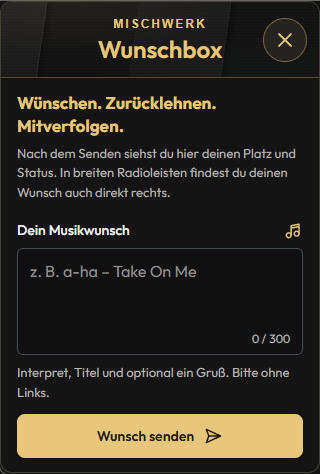
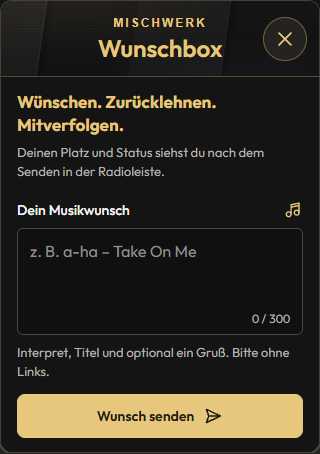
Vereinfache Wunschbox und erneuere Freigabe für Build 451 [skip ci]

diff --git a/PROJEKT/app/www/css/wishes/wishbox.css b/PROJEKT/app/www/css/wishes/wishbox.css
@@ -73,28 +73,7 @@ html[data-view=wishes] .wish-drawer #wish-compose-open { width:calc(100% - 40px)
  html[data-view=wishes] .wish-drawer #wish-compose-open { width:calc(100% - 32px); margin-inline:16px; margin-bottom:14px; }
 }
 
-/* Persönliche Wunschverfolgung, mit denselben Statusdaten wie die Radioleiste. */
+/* Kurzer Einstieg ins Wunschformular. */
 .wish-intro{margin:0 0 18px;color:var(--muted);font-size:13px;line-height:1.5}
 .wish-intro strong{display:block;color:var(--gold);font-size:17px;line-height:1.35;margin-bottom:6px}
 .wish-intro p{margin:0}
-.wish-tracking{padding:18px 20px 16px;border-bottom:1px solid #2b2b2b}
-.wish-live-label{margin:0 0 5px;color:var(--gold);font:700 11px/1.4 Arial,sans-serif;letter-spacing:1.4px;text-transform:uppercase}
-.wish-tracking h3{margin:0 0 14px;color:var(--gold);font-size:23px;line-height:1.25}
-#wish-tracking-song{display:block;font-size:18px;line-height:1.4;font-weight:600;overflow-wrap:anywhere}
-.wish-tracking-meta{display:flex;align-items:baseline;flex-wrap:wrap;gap:6px 12px;margin-top:9px;font-size:14px;line-height:1.45}
-#wish-tracking-rank{color:var(--gold);font-size:20px}
-#wish-tracking-stage{color:var(--muted)}
-#wish-tracking-more{margin:8px 0 0;color:var(--muted);font-size:13px;line-height:1.45}
-.wish-tracking-steps{display:grid;grid-template-columns:repeat(3,minmax(0,1fr));gap:8px;padding:0;margin:18px 0 14px;list-style:none;counter-reset:wish-step}
-.wish-tracking-steps li{border-top:2px solid #353535;padding-top:8px;color:var(--muted);font-size:12px;line-height:1.4;overflow-wrap:anywhere;counter-increment:wish-step}
-.wish-tracking-steps li::before{content:counter(wish-step);display:block;margin-bottom:4px;font-weight:700}
-.wish-tracking-steps .is-current{border-color:var(--gold);color:var(--gold);font-weight:600}
-.wish-tracking-steps .is-done{border-color:#8a764c;color:#d8c99f}
-.wish-tracking-location{margin:12px 0 8px;font-size:13px;line-height:1.5;color:var(--text)}
-.wish-tracking-note{margin:0 0 14px;font-size:12px;line-height:1.45;color:var(--muted)}
-#wish-back-radio{width:100%;min-height:44px}
-@media(max-width:420px){.wish-tracking{padding:16px}.wish-tracking h3{font-size:21px}}
-
-.wish-tracking.is-accepted #wish-tracking-title{animation:mw-wish-arrived .28s ease-out both}
-@keyframes mw-wish-arrived{from{opacity:0;transform:translateY(3px)}to{opacity:1;transform:translateY(0)}}
-@media(prefers-reduced-motion:reduce){.wish-tracking.is-accepted #wish-tracking-title{animation:none}}

diff --git a/PROJEKT/app/www/js/wishes/markup.js b/PROJEKT/app/www/js/wishes/markup.js
@@ -4,17 +4,9 @@ MischWerkUI.define('wishesMarkup', function (dependencies) {
   dependencies.dom.mount('wishes-placeholder', `
     <section id="wishes-panel" aria-label="Wunschbox" hidden>
       <header id="wish-drawer-heading" class="wish-drawer-heading dialog-header" hidden><div class="dialog-heading"><span class="eyebrow">MischWerk</span><h2 id="inline-wish-title">Wunschbox</h2></div><button id="close-wishes" class="icon-button" type="button" aria-label="Wunschbox schließen" title="Wunschbox schließen"><svg viewBox="0 0 24 24" aria-hidden="true"><path d="m6 6 12 12M18 6 6 18"/></svg></button></header>
-      <section id="wish-tracking" class="wish-tracking" aria-labelledby="wish-tracking-title" hidden>
-        <p class="wish-live-label">Dein Live-Status</p><h3 id="wish-tracking-title" aria-live="polite" aria-atomic="true">Dein Wunsch im Blick</h3>
-        <div class="wish-tracking-summary" role="status" aria-live="polite" aria-atomic="true"><strong id="wish-tracking-song"></strong><div class="wish-tracking-meta"><strong id="wish-tracking-rank"></strong><span id="wish-tracking-stage"></span></div><p id="wish-tracking-more"></p></div>
-        <ol id="wish-tracking-steps" class="wish-tracking-steps" aria-label="Wunschstatus"><li>Angenommen</li><li>In Vorbereitung</li><li>Gespielt</li></ol>
-        <p id="wish-tracking-location" class="wish-tracking-location">Deinen Platz und Status findest du hier – auch beim erneuten Öffnen. In breiten Radioleisten steht dein Wunsch zusätzlich rechts.</p>
-        <p class="wish-tracking-note">Der Status kommt von der Moderation. Eine feste Spielzeit gibt es nicht.</p>
-        <button id="wish-back-radio" class="primary-button" type="button">Zurück zum Radio</button>
-      </section>
       <button id="wish-compose-open" class="secondary-button" type="button" aria-controls="wish-form" hidden>Weiteren Wunsch eingeben</button>
       <form id="wish-form" class="wish-compose">
-        <div class="wish-intro"><strong>Wünschen. Zurücklehnen. Mitverfolgen.</strong><p>Nach dem Senden siehst du hier deinen Platz und Status. In breiten Radioleisten findest du deinen Wunsch auch direkt rechts.</p></div>
+        <div class="wish-intro"><strong>Wünschen. Zurücklehnen. Mitverfolgen.</strong><p>Deinen Platz und Status siehst du nach dem Senden in der Radioleiste.</p></div>
         <fieldset id="wish-fields" disabled>
           <div class="wish-label-row">
             <label for="wish-text">Dein Musikwunsch</label>

diff --git a/PROJEKT/app/www/js/wishes/drawer.js b/PROJEKT/app/www/js/wishes/drawer.js
@@ -19,7 +19,8 @@ MischWerkUI.define('wishDrawer', function (dependencies) {
     if (key !== feedbackKey && !data.feedbackHidden && !data.pending && !data.error) { composing = false; }
     feedbackKey = key;
     var positions = model.current() && model.current().wishPositions;
-    var show = !positions || !positions.total || composing || !!data.text || data.error || data.pending;
+    var submitted = positions && positions.total || (!data.error && !data.pending && !!data.feedback);
+    var show = !submitted || composing || !!data.text || data.error || data.pending;
     var form = dom.el('wish-form'), button = dom.el('wish-compose-open');
     var restore = !show && form.contains(document.activeElement);
     var reveal = show && document.activeElement === button;
@@ -55,11 +56,11 @@ MischWerkUI.define('wishDrawer', function (dependencies) {
     feedback.className = 'wish-feedback' + (data.error ? ' error' : data.pending ? ' pending' : ' success');
     feedback.setAttribute('role', data.error ? 'alert' : 'status');
     feedback.setAttribute('aria-live', data.error ? 'assertive' : 'polite');
-    feedback.textContent = data.feedback; feedback.hidden = data.feedbackHidden || (!data.error && !data.pending);
-    feedback.setAttribute('data-accepted', String(!data.feedbackHidden && !data.error && !data.pending));
+    feedback.textContent = !data.error && !data.pending && data.feedback ? 'Dein Wunsch ist dabei!' : data.feedback;
+    feedback.hidden = data.feedbackHidden;
     dom.setText('wish-hint', data.hint); dom.el('wish-hint').hidden = !data.hint;
     receiving = false;
-    showComposer(data);signals.emit('wish-presentation');
+    showComposer(data);
     focusInput();
     if (closing && acknowledged >= sequence) { clearTimeout(closeTimer); closing = false; signals.emit('overlay-dismiss'); }
   }
@@ -110,7 +111,6 @@ MischWerkUI.define('wishDrawer', function (dependencies) {
       event.preventDefault(); if (this.reportValidity()) { edit(true); }
     });
     dom.el('close-wishes').addEventListener('click', close);
-    dom.el('wish-back-radio').addEventListener('click', close);
     document.addEventListener('keydown', function (event) {
       if (model.view === 'wishes' && event.key === 'Escape') { event.preventDefault(); close(); }
     });

diff --git a/PROJEKT/app/www/js/ui/composition.js b/PROJEKT/app/www/js/ui/composition.js
@@ -49,8 +49,6 @@ MischWerkUI.setComposer(function (factories) {
     if (factories.wishRelay) { wishRelay = factories.wishRelay({ bridge:bridge, model:model, dom:dom, commands:commands, signals:signals }); }
     var wishDrawer = null;
     if (factories.wishDrawer) { wishDrawer = factories.wishDrawer({ bridge:bridge, model:model, dom:dom, commands:commands, signals:signals }); }
-    var wishTracking = null;
-    if (factories.wishTracking) { wishTracking = factories.wishTracking({ model:model, dom:dom, signals:signals }); }
     var wishWindow = null;
     if (factories.wishWindow) { wishWindow = factories.wishWindow({ bridge:bridge, model:model, dom:dom, signals:signals }); }
     var team = null;
@@ -76,6 +74,6 @@ MischWerkUI.setComposer(function (factories) {
       presentation: presentation, signals: signals });
     var lifecycle = factories.lifecycle({ bridge: bridge, model: model, dom: dom, layout: layout,
       commands: commands, wishes: wishes, provider: provider, player: player, signals: signals, listenerPresence:listenerPresence });
-    lifecycle.start([viewport, layout, commands, volume, player, listenerPresence, radioTicker, wishes, wishFeedback, wishRelay, wishDrawer, wishTracking, wishWindow,
+    lifecycle.start([viewport, layout, commands, volume, player, listenerPresence, radioTicker, wishes, wishFeedback, wishRelay, wishDrawer, wishWindow,
       team, channelTextsLayout, channelTexts, teamConnection, teamNavigation, scheduleView, schedule, updates, overlays]);
 });

diff --git a/PROJEKT/app/www/js/wishes/relay.js b/PROJEKT/app/www/js/wishes/relay.js
@@ -26,6 +26,8 @@ MischWerkUI.define('wishRelay', function (dependencies) {
     dom.el('open-wishes').setAttribute('aria-haspopup', 'dialog');
     dom.el('open-wishes').setAttribute('aria-expanded', 'false');
     bridge.addEventListener('mw:wishes.open', function (event) {
+      var feedback = dom.el('wish-feedback');
+      if (feedback.classList.contains('success')) { feedback.hidden = true; }
       sequence = 0;
       surfaceId = event.data.surfaceId; surfaceRevision = event.data.viewRevision || 1; opened = true;
       dom.el('open-wishes').setAttribute('aria-expanded', 'true'); mirror(true);

diff --git a/PROJEKT/app/server/app.js b/PROJEKT/app/server/app.js
@@ -1,8 +1,8 @@
 if (typeof MischWerkUpdateProbe === 'function') {
     MischWerkUpdateProbe(/* update-files:start */ {
  "schema": 1,
- "version": "0.1.450",
- "buildNumber": 450,
+ "version": "0.1.451",
+ "buildNumber": 451,
  "directories": {
   "": [
    "main.js",
@@ -148,8 +148,7 @@ if (typeof MischWerkUpdateProbe === 'function') {
    "feedback.js",
    "relay.js",
    "drawer.js",
-   "window.js",
-   "tracking.js"
+   "window.js"
   ],
   "www/js/team": [
    "markup.js",

diff --git a/PROJEKT/app/www/js/start.js b/PROJEKT/app/www/js/start.js
@@ -31,7 +31,6 @@
     ['wishRelay', 'wishes/relay.js', 'radio'],
     ['wishDrawer', 'wishes/drawer.js', 'wishes'],
     ['wishWindow', 'wishes/window.js', 'wishes'],
-    ['wishTracking', 'wishes/tracking.js', 'wishes'],
     ['team', 'team/management.js', 'team'],
     ['channelTexts', 'team/channel-texts.js', 'team'],
     ['teamConnectionDiagnosis', 'team/connection-diagnosis.js', 'team'],

diff --git a/PROJEKT/app/server/config.js b/PROJEKT/app/server/config.js
@@ -1,7 +1,7 @@
 /* MischWerk Backend-Konfiguration. Keine Zugangsdaten oder Clientwerte. */
 var MischWerkConfig = {
-    version: '0.1.450',
-    buildNumber: 450,
+    version: '0.1.451',
+    buildNumber: 451,
     stationName: 'MischWerk',
     ownerNick: 'Otterchen',
     administrationNick: 'Polaroid',

diff --git a/PROJEKT/src/backend/config.js b/PROJEKT/src/backend/config.js
@@ -1,7 +1,7 @@
 /* MischWerk Backend-Konfiguration. Keine Zugangsdaten oder Clientwerte. */
 var MischWerkConfig = {
-    version: '0.1.450',
-    buildNumber: 450,
+    version: '0.1.451',
+    buildNumber: 451,
     stationName: 'MischWerk',
     ownerNick: 'Otterchen',
     administrationNick: 'Polaroid',

diff --git a/PROJEKT/app/main.js b/PROJEKT/app/main.js
@@ -1,3 +1,3 @@
-/* MischWerk 0.1.450 | Build 450 - Einstieg. Fachlogik liegt unter server/. */
+/* MischWerk 0.1.451 | Build 451 - Einstieg. Fachlogik liegt unter server/. */
 KnuddelsServer.execute('server/app.js');
 var App = MischWerkModules.createApp(MischWerkConfig);

diff --git a/PROJEKT/docs/architektur/DESIGN.md b/PROJEKT/docs/architektur/DESIGN.md
@@ -7,7 +7,7 @@ Die breite Leiste nutzt 12 px vertikales Innenpadding und 16 statt 44 px Zusatzr
 
 Alle Rollen verwenden die bisherige Höreranordnung; sie zeigt die unveränderte Radio-Grafik rechts in exakt derselben Bildgröße und auf derselben Höhe wie das linke Logo (normal 160–220 px, in engen 1200–1599-px-Hörerleisten 144–160 px). Sendeplan und freigegebene Wunschbox bilden eine vertikale, mittig ausgerichtete 128-px-Gruppe zwischen Sendungsinformationen/eigenem Wunsch und rechtem Logo, mit 52-px-Tasten, 15-px-Schrift, 24-px-Symbolen und 8 px Abstand. Ohne Freigabe steht nur der Sendeplan an derselben Position. Symmetrische äußere Rasterspalten reservieren jeweils Logo plus 144 px; das linke Logo bleibt am Außenrand, Play bleibt exakt mittig. Keine zusätzliche Aktionszeile oder Höhenreserve unter den Sendungsinformationen. Ab 1800 px steht der eigene Wunsch rechts neben dem Thema; bei 1200–1799 px bleibt er sichtbar innerhalb der rechten Informationsspalte unter Thema und Lautstärke. Dort maximal zwei Wunschtextzeilen mit 16-px-Schrift, vollständiger DOM-Text und bestehende Wunschoberfläche erhalten; Titel/Thema mit 20/24 px, goldene Überschriften gemeinsam 20 px und gleich hoch, Logos proportional. Unter 1200 px bleibt die bisherige kompakte Anordnung. Zentrale Freigaben, Originalmedien und Audioweg bleiben erhalten.
 
-Die Wunschbox begrüßt mit „Wünschen. Zurücklehnen. Mitverfolgen.“ Nach dem Absenden bleiben der nächste eigene Wunsch, bestätigter Platz und drei Moderationsschritte sichtbar – auch bei 320 px und nach Wiederöffnung. Der aktuelle Schritt ist gold hervorgehoben. „Zurück zum Radio“ schließt über den bestehenden Entwurfsweg. Hinweis auf die zusätzliche Anzeige rechts in breiten Radioleisten; keine geschätzte Wartezeit oder aktuelle Audiobehauptung. Keine zusätzliche Versandmeldung unter dem Live-Status; die Bestätigung erfolgt ausschließlich im Live-Status.
+Die Wunschbox begrüßt mit „Wünschen. Zurücklehnen. Mitverfolgen.“ Nach bestätigter Abgabe erscheint für fünf Sekunden „Dein Wunsch ist dabei!“ samt Weiteren Wunsch eingeben. Beim erneuten Öffnen steht nur diese Eingabeoption bereit; ein vorhandener Entwurf oder laufender/fehlgeschlagener Versand bleibt direkt sichtbar. Eigener Wunsch, Platz und Moderationsstatus stehen ausschließlich in der Radioleiste. Keine doppelte Live-Statusansicht oder Zurück-zum-Radio-Taste; Schließen und Escape erhalten den bestehenden Entwurfsweg.
 
 Die Menütexte sind kurz, direkt und einheitlich formuliert. Klare Kernnamen wie Sendung, Wünsche, Radio-Team und Bot-Texte bleiben erhalten. Outfit ist die Menüschrift: Menütitel 24/28 px, große Bereichstitel 20/26–28 px, Abschnittsüberschriften 16/22 px, Feldbeschriftungen und Haupttasten 14 px, Hinweise 13 px und Eingaben 16 px. Haupt- und Abschnittsüberschriften einschließlich Sendeplanthemen verwenden MischWerk-Gold #e6c77b. Der MischWerk-Systemschriftzug nutzt Arial 12/14 px. Hinweise, Zähler und Fehler behalten ihren eigenen Rang und ihre Zustandsfarben. Kürzere Wunschboxzustände und kompakte Innenabstände im Bot-Text-Reiter erhalten die Geometrie bei 320 px. Radioleiste und Menüköpfe verwenden die Werkhallen-Textur aus der einmaligen CSS-Variable --workshop-material im kritischen Stil von index.html. Unterhalb der Köpfe sind sämtliche Menü-Inhaltsflächen einschließlich Reitern, Listen, Lade-/Fehler-/Leerzuständen und Fußbereichen einheitlich #141414 ohne Hintergrundbild, Diagonalpaneele oder Textur. Der erste HTML-Anstrich verwendet dieselbe ruhige Inhaltsfläche. Sechs Verlaufsebenen bilden versetzte Graphitpaneele, abgeschrägte Kanten, feine matte Linien und sehr zurückhaltendes warmes/kühles Licht. Prozentuale Flächen und Lichtzentren füllen jede tatsächliche Fenstergröße. Die gemeinsame Variable --workshop-angle passt die Neigung der Paneelkanten per Seitenverhältnis von 98 bis 128 Grad an schmale, breite und ultrabreite Hosts an, bereits im ersten HTML-Anstrich; auch veränderte Höhe und Browserzoom werden berücksichtigt. Keine neue Materialanimation, Medienanfrage oder JavaScript-Größenmessung. Alle Menü-Canvasflächen und Header besitzen #141414 als Grundfarbe; Eingaben bleiben neutral #101010 und Trenner #2b2b2b. Transparente Reiterleisten, Tagesnavigation und Bot-Text-Fußleiste lassen die ruhige Graphitfläche durchscheinen. Die goldenen Lichtreflexe und der RGB-Rand bleiben an der Radioleiste. Passt dort kein vollständig freier senkrechter Korridor, prüft radio/workshop im breiten Deck den tatsächlichen 45-Grad-Verlauf zwischen den zweidimensionalen Text-/Bedienrechtecken einschließlich Reflexabstand. So bleiben vollständige Linien bei 1536/1707 px nutzbarer Breite sichtbar; weder Bedienung noch Text werden hinterzeichnet. Sämtliche nativen Menüs verwenden die gemeinsame Studio-Werkhalle unter css/shared/workshop-menus.css: ruhiges Graphit, feine Metallkanten und warme Goldakzente. Die Header tragen einen lesbaren MischWerk-Schriftzug in Arial über dem mittigen Outfit-Titel. Die kleinen Bildlogos sind aus dem Menümarkup entfernt; Radio und Originalmedien bleiben erhalten. Schließen bleibt rund und mindestens 44 × 44 px groß. Bereits der erste HTML-Anstrich entspricht dem fertigen 76-px-Kopf. Sendung und Wünsche sowie Radio-Team, Bot-Texte und Verbindung verwenden gleichmäßige 48-px-Reiter mit goldener Auswahlkante. Wunschbox und Tagesplan teilen Material, Schrift und Aktionsfarben. Bestehende Scroll-, Größen-, Rechte-, Entwurfs- und Audiowege bleiben erhalten.
 
@@ -89,7 +89,7 @@ Aktuelle lokale Ansichten: [Lauftext unter der Appleiste](../pruefung/oberflaech
 
 Alle vier nativen Overlays zeigen den lesbaren MischWerk-Schriftzug über dem mittigen Titel und eine frei erreichbare runde Schließen-Taste rechts. Die kleinen Header-Bildlogos sind entfernt. Die Köpfe bleiben vom ersten HTML-Anstrich bis zur fertigen Ansicht mindestens 76 px hoch, mit 12-px-Systemschriftzug und 24-px-Outfit-Titel. Reiterwechsel verändern den Kopf nicht. HTML-Menüaußenflächen verwenden #141414; die leere native Ladeabdeckung bleibt #0f1114. Eingaben haben 16-px-Text; Aktionen bleiben mindestens 44 px groß.
 
-- **Wunschbox:** Wie die Moderation flach in Graphit #141414 mit Outfit und goldener Sendetaste. Kleine Radien, ruhiger Kopf ohne dekorative Ringe, ein 300-Zeichen-Textfeld und Zeichenzähler. Höhe vom ersten Öffnen an natürlich; nach Abgabe eine einzige Bestätigung „Dein Wunsch ist dabei!“ im Live-Status sowie Weiteren Wunsch eingeben. Eigener Song, Platz und Moderationsschritte bleiben auch bei 320 px und nach Wiederöffnung sichtbar; die breite Appleiste zeigt den Wunsch zusätzlich. [Lokale 320-px-Ansicht](../pruefung/oberflaeche/wunschbox/wunschbox-flach-320.png).
+- **Wunschbox:** Flach in Graphit #141414 mit Outfit und goldener Sendetaste. Kleine Radien, ruhiger Kopf, ein 300-Zeichen-Textfeld und Zeichenzähler. Natürliche Höhe ab Öffnen; nach Abgabe eine kurze Bestätigung „Dein Wunsch ist dabei!“ sowie Weiteren Wunsch eingeben. Bei Wiederöffnung nur die weitere Eingabeoption; keine wiederholte Versandquittung oder Wunschverfolgung. Eigener Song, Platz und Status bleiben ausschließlich in der Radioleiste. [Lokale 320-px-Ansicht](../pruefung/oberflaeche/wunschbox/wunschbox-flach-320.png).
 - **Moderation:** Sendung und Wünsche auf flachem Graphit #141414 mit Gold #e6c77b, Outfit, einfachen Rahmen und matten Tasten. Sendung enthält An-/Abmeldung ohne PIN, Wunschbox, Thema und private Übergabe. Wünsche zeigt eine einzige scrollbare Liste: echter Nick beziehungsweise externer Anzeigename mit Herkunft, Empfangsuhrzeit und vollständiger goldener Wunschtext. Jeder offene Wunsch zeigt seinen bestätigten Regiestatus und die vorhandenen Aktionen für Vorbereitung, Zurücksetzen, Jetzt dran, Erledigen und Verwerfen; Verwerfen verlangt eine Inline-Bestätigung. Keine Umsortierung oder Textseiten. Aktualisieren und Rückmeldung stehen fest über der Liste. Nur Sendung und Übergabe verwenden bei Platzmangel Vor/Zurück. Alte gespeicherte Moderationsgrafiken sind entfernt; Testbilder bleiben ausschließlich temporär.
 - **Verwaltung:** Neu aufgebaut im gleichen flachen Stil wie Moderation und Wunschbox: Outfit, Anthrazit, Goldakzente und kleine Radien. Radio-Team mit kurzer Nickeingabe und kompakten Mitgliederzeilen. Bot-Texte über die direkte Textauswahl bearbeiten; Plus und Entfernen erhalten bis zu sechs Einträge. Kopf, Reiter und Aktionen bleiben fest; nur lange Inhalte scrollen bei Bedarf. Textfelder wachsen ohne eigene Scrollleiste. [Bot-Texte](../pruefung/oberflaeche/verwaltung/verwaltung-bottexte-560.png).
 - **Sendeplan:** Ruhige Tagesliste auf #141414 mit dezenten Trennlinien. Thema 20 px, Moderation 15 px und Zeiten 14 px; vollständiger Text bleibt umgebrochen erreichbar. Die aktuelle geplante Sendung trägt eine goldene Linie, Davor und Danach stehen direkt dabei. Anfangsmaß 640 × 320 px, natürliche Inhaltshöhe bis 600 px, darüber scrollt die Liste. Bestätigte Tage aus dem 21-Tage-Fenster erscheinen beim Wechsel sofort; eine unveränderte Prüfung lässt Zeilen, Fokus und Scrollposition erhalten. Hintergrundprüfungen leeren die Liste nicht. Ein Fehler bezeichnet den letzten Stand ausdrücklich als nicht aktuell und bietet Erneut laden. AutoDJ-Zeilen stammen ausschließlich aus dem gelieferten Homepage-JSON; ein erfolgreicher leerer Tag meldet fehlende Sendungen. Die Zeitmarkierungen folgen der Berliner Zeit ohne neue Programmdaten. [640 px](../pruefung/oberflaeche/sendeplan/sendeplan-tag-640.png) · [320 px](../pruefung/oberflaeche/sendeplan/sendeplan-tag-320.png) · [AutoDJ-Beispiel](../pruefung/oberflaeche/sendeplan/sendeplan-autodj.png).

diff --git a/PROJEKT/docs/pruefung/PRUEFBERICHT.md b/PROJEKT/docs/pruefung/PRUEFBERICHT.md
@@ -1,8 +1,12 @@
-# MischWerk – Prüfbericht 0.1.450 / Build 450
+# MischWerk – Prüfbericht 0.1.451 / Build 451
 
-Stand: 20.11.2026. Build 450 gleicht die Darstellung von Thema und Moderation an Web und Android an: Nur eine frische zentrale Sendungsbestätigung zeigt den DJ-Namen. Ein Anbieterstatus „live“ ersetzt diese Bestätigung nicht. Ohne Bestätigung erscheint „Moderation derzeit nicht verfügbar“; ein bestätigter AutoDJ-Status bleibt höchstens 45 Sekunden gültig. Ein weiter physisch offener nativer HTTP-Aufruf wird ausdrücklich als ausstehende Rückmeldung angezeigt; die vorgeschriebene Sperre bis zum echten Callback bleibt erhalten.
+Stand: 21.11.2026. Die Wunschbox zeigt nach bestätigtem Versand nur die kurze Fünfsekunden-Quittung und „Weiteren Wunsch eingeben“. Beim Wiederöffnen erscheint keine alte Quittung. Die doppelte Live-Statusansicht, ihre Moderationsschritte und „Zurück zum Radio“ sind einschließlich Controller, Markup, CSS und Ladeplaneintrag entfernt. Der zuerst gesendete noch offene eigene Wunsch bleibt mit Platz und Status ausschließlich in der Headerbar; nach Abschluss rückt der nächste nach. Vorhandene Entwürfe, Pending-/Fehleranzeigen, Fokus, Versandkennungen und Audio bleiben erhalten. Es gibt keine automatische Textkorrektur oder neue Bibliotheksanbindung.
 
-Die Node-Prüfungen, Quellen-/Längenprüfungen und beide Rhino-Engines bestehen am Arbeitsbestand und am tatsächlichen Uploadpaket. Die Browser-Gegenprobe mit 320 und 1280 Pixeln bestätigt DJ und Thema bei gültiger Projektion sowie den gemeinsamen Ablauf; die vorhandene Prüfung für Wunschformular und Platzanzeige besteht ebenfalls. Das Paket mit 123 Dateien liegt im persönlichen Uploadordner. Eine externe Freigabe, FTP-Übertragung oder produktive Aktivierung von Build 450 ist damit nicht behauptet.
+Gegenbeleg: Die neue Browserprüfung für Versand und sofortige Wiederöffnung scheitert am unveränderten vorherigen Stand mit zwei noch vorhandenen Status-/Rückkehrknoten statt null. Danach bestehen 51 passende Edge-Browserprüfungen einschließlich K3-/STAPP-Emulatormodellen und weitere 8 Wunschoberflächenprüfungen am tatsächlich gebündelten UPLOAD. Geprüft sind 320 bis 2290 Pixel, zwei aufeinanderfolgende Wünsche mit unverändertem ersten Headerwunsch, Wiederöffnung ohne alte Quittung, erhaltene Entwürfe, verspätete Quittungen, Fehler, langsames CSS, natürliche Höhe und unveränderte Radiohöhe. [Wiederöffnung mit weiterer Eingabe](oberflaeche/wunschbox/wunschbox-weitere-eingabe.png); die vier vorhandenen Formular-/Versandbilder sind aktualisiert.
+
+Der vollständige Paketbau besteht mit 466/466 Node-Prüfungen, Architektur-, API-, Quellen-/Laufzeit-, Längen- und Integritätsprüfung. Rhino 1.7.7.2 und 1.9.1 bestehen jeweils 242 Prüfungen sowohl am Arbeitsbestand als auch am tatsächlichen gebündelten UPLOAD. Alle fünf Manifeste passen zu 122 Paketdateien, darunter 109 Texte mit höchstens 9407 UTF-16-Zeichen. Der entfernte Statuscontroller wird auch aus früheren lokalen Paketen gezielt bereinigt. Nachweise im System-Tempverzeichnis: `MischWerk-451-Paket.log`, `MischWerk-451-Browser-Upload.log` und `MischWerk-451-Freigabe.log`. Das lokale Paket liegt im bestehenden persönlichen direkten Uploadordner. Auf ausdrücklichen Nutzerauftrag wurde der vollständige Freigabebau mit `--approve` erneut bestanden und die externe lokale Freigabe unter `.freigaben/MischWerk.json` erneuert: Appversion 0.1.451, Build 451, neue eindeutige releaseId, sämtliche 122 Pfade, Größen und SHA-256 unabhängig erneut geprüft. Der GitHub-Abschluss verwendet `origin/main` und `[skip ci]`; der einzige Repositoryworkflow reagiert auf Pushs ausschließlich auf Emulatorzweige. Keine FTP-Übertragung oder produktive Aktivierung; die native Darstellung bleibt gesondert abzunehmen.
+
+Der vorherige Abgleich von Thema und Moderation bleibt erhalten: Nur eine frische zentrale Sendungsbestätigung zeigt den DJ-Namen; Anbieterstatus allein genügt nicht. Ohne Bestätigung erscheint „Moderation derzeit nicht verfügbar“, bestätigter AutoDJ bleibt höchstens 45 Sekunden gültig. Ein physisch offener nativer HTTP-Aufruf bleibt bis zum Callback gesperrt und wird ausdrücklich als ausstehende Rückmeldung angezeigt.
 
 Produktive Diagnose vom 20.11.: Während zentral frischer Moderation erreichte zunächst kein Publisher-Request das geprüfte Cloud-Zeitfenster. Nach dem einmal ausdrücklich erlaubten nativen Neustart um 19:58:40 MEZ trafen wieder erfolgreiche POSTs ein (erste Antwort nach 3,268 Sekunden). Das belegt die wiederhergestellte Übertragung, jedoch keine bestimmte Ursache im Knuddels-SDK. Der spätere Ablauf der Studio-Freigabe nach Internetverlust ist ein davon getrennter Fehler. Dessen automatische Erneuerung wird im Live Studio korrigiert; eine neue Studio-Installation und gemeinsame Live-Abnahme stehen gesondert aus.
 
